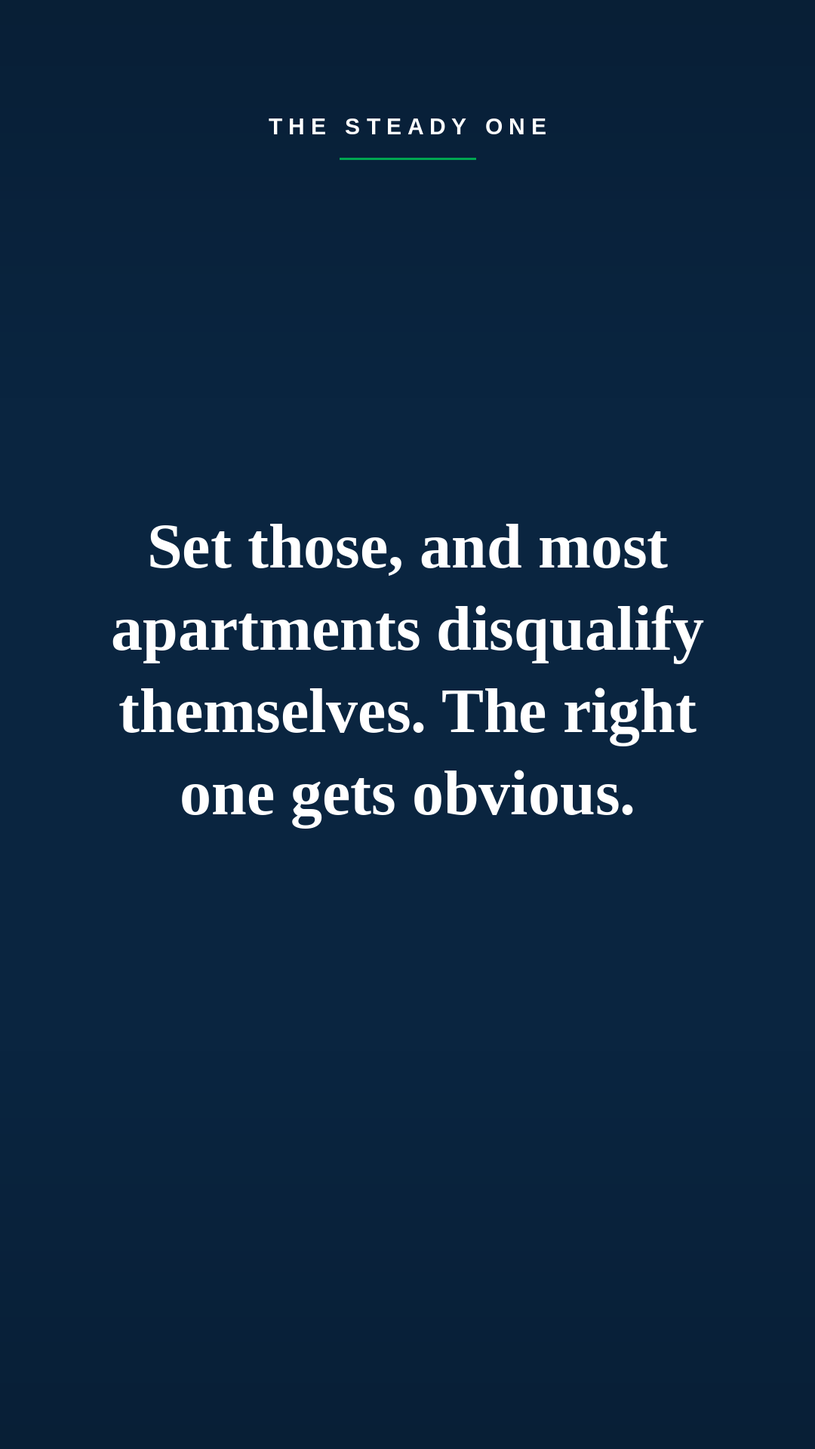
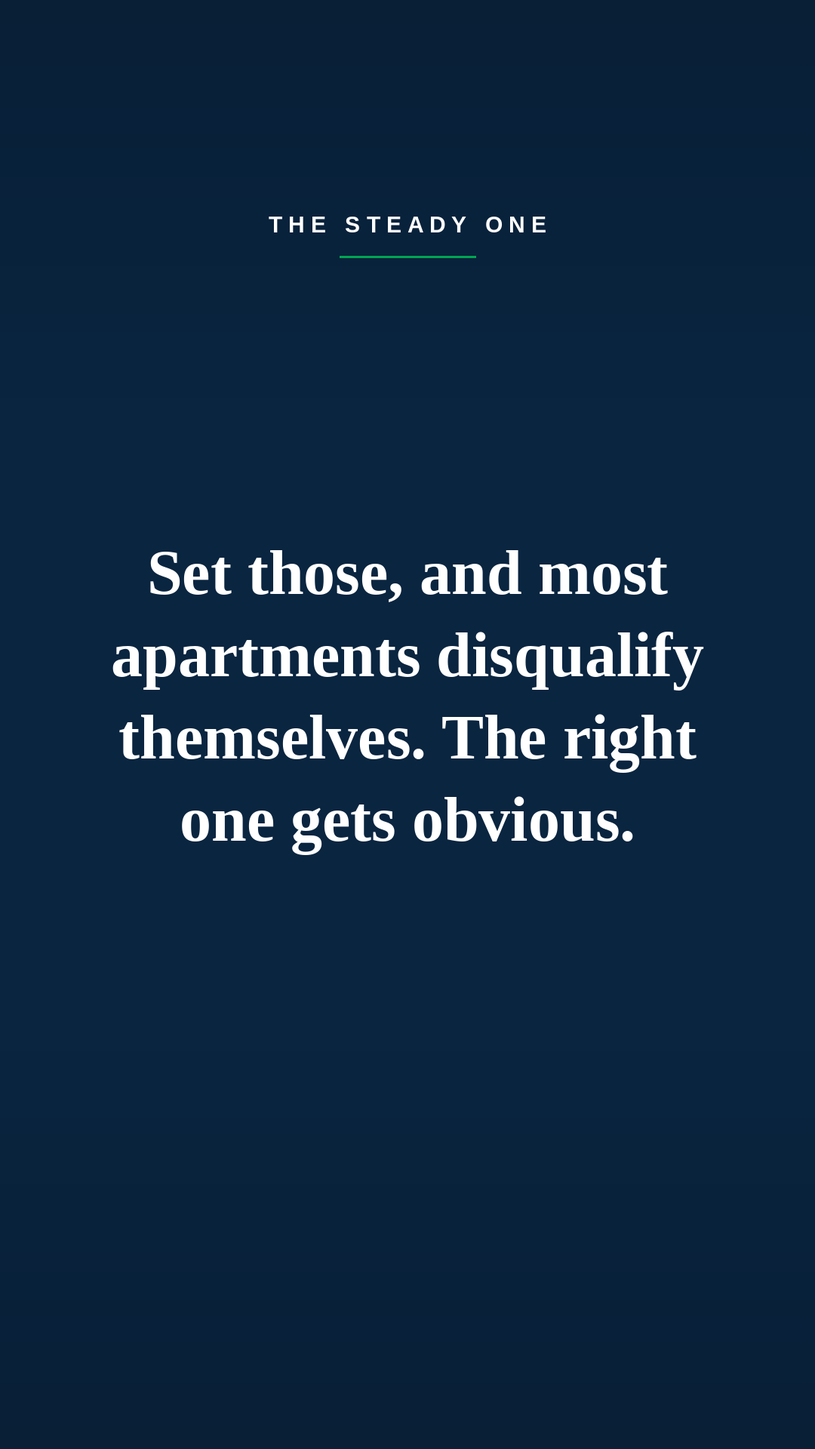
recover: 15 orphaned marketing commits + repo audit (brief rev 26)
Audit after the desktop failure: main was already fully in sync and no
work was uncommitted. The one real gap was claude/steady-one-marketing-plan-qbujnx,
which merged into main only up to PR #31 (2026-06-16) and then kept
receiving 15 commits through 07-01 that never merged back.

Recovered from that branch:
- docs/GROWTH_ROADMAP.md (traffic milestones -> monetization ladder)
- docs/assets/Steady_One_Plano_Marketing.pdf + 8 NYC cover photos
- carousels 05_coliving, 06_hiddencosts, 07_timing, 08_dealbreakers, 09_whystay
- scripts/gen_magic.py (new); scripts/gen_cards.py photo-cover support
- carousels 01-04 regenerated 06-28 for the TikTok top-UI safe zone

Not taken: MARKETING_PLAN.md and all app/lib/content files, where main is
newer. The WakeMind branch nets to zero against main (migrated to
87dejesus/wakemind). Reddit copy-bank and reply-rules on main verified as
supersets of every reconcile branch.

MARKETING_CONTEXT.md fixed while merging: it listed already-generated
carousels as pending and pointed at content/seo-aeo-batch-jun2026 for
docs/reddit-insights/, which has been on main since PR #39.

Claude-Session: https://claude.ai/code/session_017afbq9jNpYULT8SBmGTVc1

diff --git a/scripts/gen_cards.py b/scripts/gen_cards.py
@@ -61,11 +61,12 @@ def bg():
     return img, ImageDraw.Draw(img)
 
 def masthead(d):
+    # y pushed down to clear the TikTok top UI safe zone (status bar + tab bar)
     f = F(SANS, 30)
     txt = "T H E   S T E A D Y   O N E"
     w = d.textlength(txt, font=f)
-    d.text(((W-w)/2, 150), txt, font=f, fill=WHITE)
-    d.line([(W/2-90, 210), (W/2+90, 210)], fill=GREEN, width=3)
+    d.text(((W-w)/2, 280), txt, font=f, fill=WHITE)
+    d.line([(W/2-90, 340), (W/2+90, 340)], fill=GREEN, width=3)
 
 def wrap(d, text, font, maxw):
     out, cur = [], ""
@@ -114,14 +115,14 @@ def swipe_hint(d):
 
 def card_hook(text, path_out, hint=True):
     img, d = bg(); masthead(d)
-    center_block(d, text, SERIF, 96, 60, WHITE, top=360, bottom=1380)
+    center_block(d, text, SERIF, 96, 60, WHITE, top=430, bottom=1380)
     if hint: swipe_hint(d)
     img.save(path_out)
 
 def card_statement(text, path_out, green_tail=None):
     img, d = bg(); masthead(d)
     if green_tail:
-        top, bottom = 360, 1430
+        top, bottom = 430, 1430
         wf, wl, wlh = fit(d, text, SERIF, 80, 50, 900, 520)
         gf, gl, glh = fit(d, green_tail, SERIF, 124, 60, 900, 360)
         gap = 56
@@ -130,7 +131,7 @@ def card_statement(text, path_out, green_tail=None):
         y = draw_lines(d, wl, wf, wlh, y, WHITE)
         draw_lines(d, gl, gf, glh, y + gap, GREEN)
     else:
-        center_block(d, text, SERIF, 84, 54, WHITE, top=360, bottom=1430)
+        center_block(d, text, SERIF, 84, 54, WHITE, top=430, bottom=1430)
     img.save(path_out)
 
 def card_numbers(kicker, rows, note, total, sub, path_out):
@@ -175,6 +176,39 @@ def card_cta(benefit, path_out, pill="Link in bio", free=True):
     img.save(path_out)
 
 # ---------- carousels ----------
+
+def _shadow_lines(d, lines, font, lh, y, fill=WHITE):
+    for i, ln in enumerate(lines):
+        w = d.textlength(ln, font=font); x = (W-w)/2
+        d.text((x+3, y+i*lh+3), ln, font=font, fill=(7, 27, 48))  # drop shadow for legibility on photo
+        d.text((x, y+i*lh), ln, font=font, fill=fill)
+    return y + len(lines)*lh
+
+def card_photo_hook(photo_path, text, path_out):
+    """Cover card: real photo, cover-fit to 9:16, dark scrims, hook text + masthead."""
+    img = Image.open(photo_path).convert("RGB")
+    scale = max(W/img.width, H/img.height)
+    img = img.resize((int(img.width*scale), int(img.height*scale)))
+    left = (img.width-W)//2; top = (img.height-H)//2
+    img = img.crop((left, top, left+W, top+H)).convert("RGBA")
+    ov = Image.new("RGBA", (W, H), (0, 0, 0, 0)); od = ImageDraw.Draw(ov)
+    for y in range(H):
+        a_top = 190*max(0.0, 1 - y/980)
+        a_bot = 150*max(0.0, (y-1520)/(H-1520))
+        a = int(max(a_top, a_bot))
+        if a:
+            od.line([(0, y), (W, y)], fill=(7, 27, 48, a))
+    img.alpha_composite(Image.new("RGBA", (W, H), (7, 27, 48, 45)))
+    img.alpha_composite(ov)
+    img = img.convert("RGB"); d = ImageDraw.Draw(img)
+    mf = F(SANS, 30); mt = "T H E   S T E A D Y   O N E"; mw = d.textlength(mt, font=mf)
+    d.text(((W-mw)/2, 280), mt, font=mf, fill=WHITE)
+    d.line([(W/2-90, 340), (W/2+90, 340)], fill=GREEN, width=3)
+    f, lines, lh = fit(d, text, SERIF, 100, 58, 900, 540)
+    _shadow_lines(d, lines, f, lh, 430, WHITE)
+    sf = F(SANS, 30); st = "S W I P E   >"; sw = d.textlength(st, font=sf)
+    d.text(((W-sw)/2, 1745), st, font=sf, fill=GREEN)
+    img.save(path_out)
 
 def build(slug, cards):
     out = f"docs/carousels/{slug}"
@@ -229,6 +263,50 @@ build("04_boroughs", [
     lambda p: card_statement("The Bronx, the most space per dollar.", p, green_tail="The city's lowest rents."),
     lambda p: card_statement("Your budget is fixed. The tradeoff is yours: space, location, or commute.", p, green_tail="Which line won't you cross?"),
     lambda p: card_cta("Heed takes your budget and your lines, then shows the places that actually fit.", p),
+])
+
+# 5) Co-living vs your own place (decision / tradeoff -> core)
+build("05_coliving", [
+    lambda p: card_hook("That 'studio' might actually be a room with three strangers.", p),
+    lambda p: card_statement("A lot of NYC listings that look like a studio or 1BR are really a private room in a shared or co-living apartment.", p),
+    lambda p: card_statement("Co-living: your own room, shared kitchen and living room.", p, green_tail="You lease the room, not the place."),
+    lambda p: card_statement("The upside: cheaper, often furnished, looser income rules, and usually no guarantor.", p),
+    lambda p: card_statement("The catch: roommates you didn't pick, less privacy, and house rules that aren't yours.", p),
+    lambda p: card_statement("Neither is wrong. It's a tradeoff: price and ease, or space and privacy.", p, green_tail="Which one is your line?"),
+    lambda p: card_cta("Heed asks this up front, then shows only the kind of place you actually want.", p),
+])
+
+# 6) Hidden costs (photo cover test, force #1, regret angle -> core)
+build("06_hiddencosts", [
+    lambda p: card_photo_hook("docs/assets/cover_hiddencosts.png", "In NYC, the rent is the cheap part.", p),
+    lambda p: card_statement("The rent is the number you compare. The costs around it are what wreck the budget.", p),
+    lambda p: card_statement("Utilities, heat, and internet, often not included.", p),
+    lambda p: card_statement("Laundry, amenity, and parking fees that never show in the listing.", p),
+    lambda p: card_statement("Plus the move-in cash: first month and a one month deposit, due at once.", p),
+    lambda p: card_statement("Cheap rent with hidden costs isn't cheap.", p, green_tail="Compare the real monthly, not the sticker."),
+    lambda p: card_cta("Heed shows the real monthly cost on every place you weigh.", p),
+])
+
+# 7) Don't pay before you verify (photo cover; FTC 2025 data + the real risk)
+build("07_timing", [
+    lambda p: card_photo_hook("docs/assets/cover_street.png", "An apartment can get taken. That's not the part that should scare you.", p),
+    lambda p: card_statement("Yes, a good place can go fast. Competition is real. But losing one only costs you time.", p),
+    lambda p: card_statement("The real risk is paying or signing before you've seen it in person and confirmed it's real.", p, green_tail="That's the costly mistake."),
+    lambda p: card_statement("The FTC counts $65 million lost to rental scams. The typical hit: $1,000, paid before ever seeing the place.", p),
+    lambda p: card_statement("And renters 18 to 29 get hit 3x more often.", p, green_tail="First apartment, highest risk."),
+    lambda p: card_statement("Move fast if a place fits your lines. Just never pay or sign before an in-person check.", p, green_tail="That's the one line you don't cross."),
+    lambda p: card_cta("Heed sets your lines and the checks to run before you commit.", p),
+])
+
+# 8) Dealbreakers are personal (from reddit-insights copy-bank, real renter quotes)
+build("08_dealbreakers", [
+    lambda p: card_hook("Stop borrowing other people's dealbreakers.", p),
+    lambda p: card_statement('"Lack of natural light is a HARD NO. I need houseplants to survive the concrete jungle."', p),
+    lambda p: card_statement('"I don\'t care as much about looks or natural light."', p),
+    lambda p: card_statement("Same feature. Opposite answers. Both right.", p, green_tail="Your list isn't theirs."),
+    lambda p: card_statement("A pros-and-cons list won't decide it. It weighs 'second bathroom' the same as 'my sanity.'", p),
+    lambda p: card_statement("The fix is knowing your 2 or 3 hard lines before you tour.", p, green_tail="Decide them calm, on paper."),
+    lambda p: card_cta("Heed turns your hard lines into a filter, then scores every place against them.", p),
 ])
 
 print("DONE")

diff --git a/scripts/gen_magic.py b/scripts/gen_magic.py
@@ -1,0 +1,90 @@
+"""'Reasons We Renew' emotional carousel: photo cover + tender feeling slides + closing."""
+import os
+from PIL import Image, ImageDraw, ImageFont
+W,H=1080,1920
+NAVY=(10,37,64); DEEP=(7,27,48); GREEN=(0,166,81); WHITE=(255,255,255)
+SERIF="/usr/share/fonts/truetype/liberation/LiberationSerif-Bold.ttf"
+SANS="/usr/share/fonts/truetype/liberation/LiberationSans-Bold.ttf"
+SANS_R="/usr/share/fonts/truetype/liberation/LiberationSans-Regular.ttf"
+HEED="public/brand/heed-mascot.png"
+def F(p,s): return ImageFont.truetype(p,s)
+def wrap(d,t,f,mw):
+    out,cur=[],""
+    for w in t.split():
+        test=(cur+" "+w).strip()
+        if d.textlength(test,font=f)<=mw: cur=test
+        else:
+            if cur: out.append(cur)
+            cur=w
+    if cur: out.append(cur)
+    return out
+def fit(d,t,path,mx,mn,mw,mh,lh=1.2):
+    for s in range(mx,mn-1,-2):
+        f=F(path,s); ls=wrap(d,t,f,mw); a,de=f.getmetrics(); h=len(ls)*int((a+de)*lh)
+        if h<=mh: return f,ls,int((a+de)*lh)
+    f=F(path,mn); a,de=f.getmetrics(); return f,wrap(d,t,f,mw),int((a+de)*lh)
+def coverfit(photo):
+    img=Image.open(photo).convert("RGB")
+    sc=max(W/img.width,H/img.height); img=img.resize((int(img.width*sc),int(img.height*sc)))
+    l=(img.width-W)//2; t=(img.height-H)//2
+    return img.crop((l,t,l+W,t+H)).convert("RGBA")
+def cshadow(d,lines,font,lh,y,fill):
+    for i,ln in enumerate(lines):
+        w=d.textlength(ln,font=font); x=(W-w)/2
+        d.text((x+3,y+i*lh+3),ln,font=font,fill=DEEP)
+        d.text((x,y+i*lh),ln,font=font,fill=fill)
+    return y+len(lines)*lh
+
+def thumb_cover(photo,title,subtitle,out):
+    img=coverfit(photo); ov=Image.new("RGBA",(W,H),(0,0,0,0)); od=ImageDraw.Draw(ov)
+    for y in range(H):
+        a=int(min(205,70+130*max(0.0,1-abs(y-880)/560)))
+        od.line([(0,y),(W,y)],fill=(7,27,48,a))
+    img.alpha_composite(ov); img=img.convert("RGB"); d=ImageDraw.Draw(img)
+    tf,tl,tlh=fit(d,title,SERIF,92,54,940,430,lh=1.1)
+    y=cshadow(d,tl,tf,tlh,700,WHITE)
+    sf,sl,slh=fit(d,subtitle,SANS_R,44,30,900,260,lh=1.3)
+    for i,ln in enumerate(sl):
+        w=d.textlength(ln,font=sf); x=(W-w)/2
+        d.text((x+2,y+30+i*slh+2),ln,font=sf,fill=DEEP); d.text((x,y+30+i*slh),ln,font=sf,fill=(214,227,236))
+    bf=F(SANS,26); bt="T H E   S T E A D Y   O N E"; bw=d.textlength(bt,font=bf)
+    d.text(((W-bw)/2,1800),bt,font=bf,fill=WHITE); d.line([(W/2-70,1846),(W/2+70,1846)],fill=GREEN,width=3)
+    img.save(out)
+
+def feeling(photo,text,out):
+    img=coverfit(photo); ov=Image.new("RGBA",(W,H),(0,0,0,0)); od=ImageDraw.Draw(ov)
+    for y in range(H):
+        a=int(min(220,20+205*max(0.0,(y-620)/(H-620))))
+        od.line([(0,y),(W,y)],fill=(7,27,48,a))
+    img.alpha_composite(ov); img=img.convert("RGB"); d=ImageDraw.Draw(img)
+    tf,tl,tlh=fit(d,text,SERIF,72,44,940,660,lh=1.22)
+    total=len(tl)*tlh; top=1010; bottom=1620; y=top+((bottom-top)-total)//2
+    cshadow(d,tl,tf,tlh,y,WHITE)
+    img.save(out)
+
+def closing(text,out):
+    img=Image.new("RGB",(W,H),NAVY); d=ImageDraw.Draw(img)
+    for y in range(H):
+        t=min(1.0,max(0.0,abs(y-H/2)/(H/2)-0.45)/0.55)*0.6
+        d.line([(0,y),(W,y)],fill=(int(NAVY[0]*(1-t)+DEEP[0]*t),int(NAVY[1]*(1-t)+DEEP[1]*t),int(NAVY[2]*(1-t)+DEEP[2]*t)))
+    tf,tl,tlh=fit(d,text,SERIF,74,50,920,520,lh=1.22)
+    total=len(tl)*tlh; y=470+max(0,(560-total)//2)
+    for i,ln in enumerate(tl):
+        w=d.textlength(ln,font=tf); d.text(((W-w)/2,y+i*tlh),ln,font=tf,fill=WHITE)
+    heed=Image.open(HEED).convert("RGBA"); hh=470; hw=int(heed.width*hh/heed.height); heed=heed.resize((hw,hh))
+    img.paste(heed,(int((W-hw)/2),1080),heed); d=ImageDraw.Draw(img)
+    bf=F(SANS,30); bt="T H E   S T E A D Y   O N E"; bw=d.textlength(bt,font=bf)
+    d.text(((W-bw)/2,1600),bt,font=bf,fill=WHITE); d.line([(W/2-80,1650),(W/2+80,1650)],fill=GREEN,width=3)
+    sf=F(SANS_R,36); s="We just make the finding-a-place part calmer."; sw=d.textlength(s,font=sf)
+    d.text(((W-sw)/2,1700),s,font=sf,fill=(200,215,228))
+    img.save(out)
+
+out="docs/carousels/09_whystay"; os.makedirs(out,exist_ok=True)
+thumb_cover("docs/assets/magic_rooftop_sunset.png","I almost gave up on this city","You keep asking if you're doing it wrong. You're not.",f"{out}/01.png")
+feeling("docs/assets/magic_bridge.png","You carried the whole exhausting week home over this bridge, and somewhere in the middle of it you felt okay again.",f"{out}/02.png")
+feeling("docs/assets/magic_bodega.png","You've been invisible to every landlord for months, and then a stranger behind a counter knows your name.",f"{out}/03.png")
+feeling("docs/assets/magic_street.png","You were ready to give up on ever feeling at home, and then you turned onto a street this quiet and your shoulders finally dropped.",f"{out}/04.png")
+feeling("docs/assets/magic_subway.png","You were holding it together all day, and an old man playing violin on a dirty platform almost undid you.",f"{out}/05.png")
+feeling("docs/assets/magic_rooftop.png","Some nights the city you can barely afford turns gold, and for a minute it feels like it's yours too.",f"{out}/06.png")
+closing("The rent asks too much of you. The city keeps giving you reasons to stay.",f"{out}/07.png")
+print("DONE 09_whystay")

diff --git a/docs/GROWTH_ROADMAP.md b/docs/GROWTH_ROADMAP.md
@@ -1,0 +1,57 @@
+# Roadmap por Marcos — The Steady One
+
+**Atualizado:** 2026-06-16
+**Lógica:** cada marco é um número medido (tráfego/leads). Ao bater o número, destrava ações de **crescimento** (chegar no próximo marco) e de **monetização** (ticket maior). Monetização sempre segue volume + integridade da marca.
+**Métrica-mãe:** visitas/mês ao site. **Métrica-irmã:** e-mails capturados (leads)/mês. Ambas no funil (`funnel_events`).
+
+> Princípio que não muda: ranquear por **fit** (as não-negociáveis da pessoa), monetizar só quando o match é genuíno. A confiança É o negócio.
+
+---
+
+## Marco 0 — Agora (0 a ~2.000 visitas/mês): provar o conteúdo
+**Crescimento:** postar 1/dia, testar ângulos (curiosidade x dor) e formatos (capa-foto x navy). Reddit aquecendo. SEO começando.
+**Monetização:** nenhuma otimização ainda. Só garantir que o tracking está medindo tudo.
+**Gatilho p/ avançar:** tráfego subindo de forma consistente E dá pra ver 1-2 formatos/ângulos campeões no funil.
+
+## Marco 1 — ~2.000 a 5.000 visitas/mês: validar o cano de afiliado
+**Crescimento:** dobrar no formato campeão; 2 posts SEO/mês (tráfego que não depende de postar todo dia); bio links com UTM por canal.
+**Monetização:** ligar o **storage afiliado** de verdade (FlexOffers/SpareFoot — o site já tem a tag do FlexOffers). Valor baixo ($5-25/conversão), mas **prova que clique → conversão → pagamento funciona ponta a ponta**. Começar a **captura + sequência de e-mail** (Resend).
+**Por quê:** validar a fontanaria do afiliado enquanto o volume é pequeno, pra estar pronto quando o tráfego vier.
+**Gatilho:** primeiras conversões de storage + lista de e-mail começando a crescer.
+
+## Marco 2 — ~10.000 visitas/mês: ativar monetização
+**Crescimento:** SEO ganhando tração (busca orgânica vira tráfego "passivo"); e-mail trazendo gente de volta.
+**Monetização:**
+1. Otimizar **quiz → e-mail** usando dado real do funil (mexer no gate, na copy).
+2. **Destravar o guarantor (alto ticket):** contatar TheGuarantors/Rhino sobre indicação, OU achar um guarantor com afiliado de verdade. Mostrar a oferta **só pro segmento que precisa** (o quiz já marca "vou precisar de fiador").
+3. E-mail nutrindo o lead → oferta no momento certo.
+**Receita estimada:** ~$2k-6k/mês (depende do mix).
+**Gatilho:** guarantor confirmado OU lista de e-mail relevante e engajada.
+
+## Marco 3 — ~25.000 a 30.000 visitas/mês: monetização de alto valor (lead-gen)
+**Crescimento:** sistematizar/terceirizar produção de conteúdo pra sustentar o volume. Com a economia de conversão já conhecida, **1º teste de ads pago** (só se o ROAS fechar: receita por visitante > custo por visitante).
+**Monetização:** iniciar o **referral de prédios no-fee/lease-up** (o modelo de maior ticket). 1-2 operadores, montar **atribuição** (link/código de indicação ou handoff "a gente te conecta"). **1 contrato assinado = ~$500-1.500.**
+**Receita estimada:** ~$10k-30k+/mês.
+**Gatilho:** 1º lease fechado via indicação → escalar para mais prédios.
+
+## Marco 4 — ~50.000+ visitas/mês: escalar e diversificar
+**Crescimento:** reinvestir no canal de melhor ROAS; possivelmente um time pequeno (conteúdo + BD de parcerias).
+**Monetização:** escalar lead-gen, múltiplos parceiros, diversificar camadas (storage + guarantor + insurance + lease referral). Productizar o pipeline de indicação.
+**Receita estimada:** dezenas de milhares/mês.
+
+---
+
+## Como saber que bati um gatilho (regras de decisão)
+- **Tráfego:** GA + `funnel_events` (visitas, por canal via UTM).
+- **Formato/ângulo campeão:** quando 1 formato traz ~2x o quiz/lead dos outros, de forma consistente (não 1 viral isolado).
+- **Conversão de afiliado:** medir clique no `/storage` e `/low-credit` (já tem tracking) → conversão real reportada pelo parceiro.
+- **Pronto pra ads:** só quando você souber **receita média por visitante**. Aí: se 1 visitante rende $X em afiliado e você paga < $X pra trazer, escala. Senão, não.
+
+## A ordem da escada de monetização (do fácil/baixo ao difícil/alto)
+1. **Storage afiliado** — fácil, ~$5-25. Liga cedo só pra validar o cano.
+2. **Guarantor referral** — médio/alto ticket, mas precisa confirmar que o programa existe.
+3. **Lead-gen / referral de lease-up** — maior ticket ($500-1.500/lease), precisa de parceria com prédios + atribuição.
+4. **Diversificação + escala** — múltiplos parceiros, ads pago rentável, produto.
+
+## O gargalo real
+Em todos os marcos, o limitador é **tráfego consistente**. A ideia é boa e única; o que destrava receita é volume + subir a escada de monetização na ordem certa. Não pular pro Marco 3 sem volume do Marco 2.

diff --git a/docs/MARKETING_CONTEXT.md b/docs/MARKETING_CONTEXT.md
@@ -1,11 +1,22 @@
 # Marketing Context — The Steady One
 
-**Atualizado:** 2026-06-16
-**Branch de trabalho:** `claude/steady-one-marketing-plan-qbujnx`
+**Atualizado:** 2026-08-10 (assets órfãos recuperados do branch `claude/steady-one-marketing-plan-qbujnx`)
 **Modelo:** GRÁTIS + afiliado (paywall de $9.49 aposentado; acesso por login de e-mail). Fonte canônica: `PROJECT_BRIEF.md` + `docs/MARKETING_PLAN.md` (v3).
 **Objetivo da fase:** pico de aluguel de verão NYC, 100% orgânico (~$0), **máximo de leads (e-mails capturados)**. Receita vem de afiliado.
 
 ---
+
+## Regra de conteúdo: SEMPRE puxar inspiração das fontes vivas (de 2026-06-16)
+
+**Antes de gerar qualquer post (carrossel, vídeo, legenda), ler primeiro:**
+1. `docs/reddit-insights/copy-bank.md` — frases reais por dor + arsenal de leis (capturado de threads do Reddit). **Fonte principal de linguagem fresca/autêntica.**
+2. `docs/reddit-insights/raw/` — capturas cruas de threads (contexto bruto).
+3. `content/posts/` — artigos SEO (ângulos e dados já pesquisados).
+4. `docs/RENTER_RESEARCH.md` — as 4 forças validadas.
+
+O objetivo é que cada post use a **voz real dos renters** (do copy-bank), não copy genérica, e fique mais fresco. Puxar 1-2 frases/ângulos do banco por peça.
+
+> `docs/reddit-insights/` está no `main` (consolidado no PR #39, 2026-07-17). Ler direto do repo. Já em uso (ex.: carrossel 08_dealbreakers).
 
 ## Estado atual (o que já está no ar)
 
@@ -26,8 +37,16 @@
 
 **Rodada 2 (fundo com skyline riscado da home — `docs/assets/skyline.png`):**
 - `04_boroughs` (7) — comparação de bairros (curiosidade/tradeoff). **POSTADO.** Card 1 sem ano (atemporal); números 2026 no repo.
-- Pendentes: co-living x apê inteiro; custos escondidos/arrependimento.
+- `05_coliving` (7) — co-living x apê inteiro (força #4), fundo skyline.
 - Vídeos rodada 2 pendentes: quanto aguenta (40x), o que é legal cobrar, custo do trajeto. (Briefs usam `skyline.png` no fundo.)
+
+**Rodada 3 (capa-foto real — `docs/assets/magic_*.png`, `cover_*.png`):**
+- `06_hiddencosts` (7) — custos escondidos/arrependimento. Primeiro com capa-foto.
+- `07_timing` (7) — anti-pânico de timing, dados FTC, sourced do post de SEO.
+- `08_dealbreakers` (7) — não-negociáveis, com falas reais do `copy-bank.md`.
+- `09_whystay` (7) — "why we stay" (copy emocional; ver regra no fim deste doc).
+
+> Todos os cards de 01 a 04 foram **regerados em 2026-06-28** com o masthead abaixado para sair da safe zone da UI do TikTok. Use sempre a versão do repo, não versões antigas exportadas.
 
 CTA padrão: "Free quiz, link in bio" (alinhado ao modelo grátis).
 
@@ -59,8 +78,10 @@ Comparar: vídeo manim x carrossel, e qual ângulo trouxe lead. **Métrica-norte
 ## Arquivos-chave
 
 - `docs/MARKETING_PLAN.md` (v3, modelo grátis) · `docs/RENTER_RESEARCH.md` (4 forças)
-- `docs/VIDEO_SCRIPTS.md` · `scripts/gen_cards.py` (gerador) · `docs/assets/skyline.png`
-- `docs/carousels/` · `supabase/migrations/003_funnel_events.sql`
+- `docs/GROWTH_ROADMAP.md` (marcos de tráfego → escada de monetização)
+- `docs/VIDEO_SCRIPTS.md` · `scripts/gen_cards.py` (gerador de cards, com capa-foto)
+- `scripts/gen_magic.py` (gerador das fotos NYC de capa) · `docs/assets/skyline.png`
+- `docs/carousels/` · `docs/assets/` · `supabase/migrations/003_funnel_events.sql`
 
 ## Próximos passos
 
@@ -68,3 +89,7 @@ Comparar: vídeo manim x carrossel, e qual ângulo trouxe lead. **Métrica-norte
 2. Gerar rodada 2 restante: co-living, custos escondidos (carrosséis) + 3 vídeos.
 3. Construir e-mail de follow-up (Resend) — alavanca de código que falta.
 4. Em 3-5 dias: rodar a query, comparar formato x ângulo, dobrar no que traz lead.
+
+## Regra de copy emocional (aprendida 2026-06-17)
+
+Empatia = nomear a dor/auto-dúvida REAL do renter primeiro ("you are not doing it wrong"), depois a pequena graça. Registro tenro e vulnerável, em "você". NUNCA esperto/irônico (afasta). Puxar o sentimento do copy-bank. Ex.: carrossel 09_whystay (levou 3 tentativas; v1/v2 falharam por serem "espertas").

diff --git a/PROJECT_BRIEF.md b/PROJECT_BRIEF.md
@@ -1,7 +1,7 @@
 # PROJECT_BRIEF.md — The Steady One
 
-**Revision:** 25
-**Last updated:** 2026-07-17 (INCIDENT CLOSED: migrated to memo23/streeteasy-ppr, catalog restored to 218 active across all 5 boroughs; PRs #37+#38)
+**Revision:** 26
+**Last updated:** 2026-08-10 (repo audit after the desktop failure: main was fully in sync; recovered 15 orphaned marketing commits from `claude/steady-one-marketing-plan-qbujnx`)
 **Canonical record:** Update this on every meaningful change. Bump the revision number.
 
 ---
@@ -197,6 +197,21 @@ CRON_SECRET                    (timing-safe-verified on cleanup route)
 - Old discovery reports archived in `docs/archive/`.
 
 ## 13. Incident log
+
+### 2026-08-10 — Repo audit after the desktop failure (no data lost)
+
+**Context:** the founder's desktop broke around 2026-07-28 and work resumed on a laptop. Full fine-tooth audit of every branch, tag and PR on `github.com/87dejesus/pepe-mvp2` to confirm nothing was stranded.
+
+**Findings:**
+- `main` tip is `3c6599c` (2026-07-28, "salvage untracked capture script..."). Nothing was left uncommitted or unpushed. All 44 PRs are closed/merged; none open.
+- **Newest activity (2026-08-04/05) is not this product.** Branch `claude/wakemind-product-discovery-1i2qlo` holds 6 WakeMind discovery commits whose last 3 commits delete everything after migration to the separate repo `87dejesus/wakemind` (confirmed to exist, last push 2026-08-05 02:34, after the cleanup). Net diff vs `main`: zero files. Nothing to bring over.
+- **The one real gap:** `claude/steady-one-marketing-plan-qbujnx` merged into `main` only up to PR #31 (2026-06-16). Its next **15 commits (2026-06-16 → 07-01) never merged**, orphaning `docs/GROWTH_ROADMAP.md`, `docs/assets/Steady_One_Plano_Marketing.pdf`, 8 NYC cover photos, carousels `05_coliving` through `09_whystay` (35 PNGs), `scripts/gen_magic.py`, the photo-cover + TikTok-safe-zone rewrite of `scripts/gen_cards.py`, and the emotional-copy rule in `MARKETING_CONTEXT.md`. **Recovered 2026-08-10.**
+- **Verified no Reddit work was lost:** `docs/reddit-insights/copy-bank.md` on `main` is a strict superset of the `reconcile/*` and `content/seo-aeo-batch-jun2026` copies (zero exclusive lines). The Filtro Zero in `.claude/reddit-reply-rules.md` on `main` is the newer "PSICOLÓGICO" reframe that deliberately replaced the older "INTENÇÃO" version still sitting on those branches. Tag `reddit-reconcile-jul17`: 0 commits outside `main`.
+- **23 stale branches** (`claude/*`, `hotfix/*`, Jan–Jun) share no merge base with `main` (history was rewritten at some point) and contain no exclusive files. Safe to delete.
+
+**Also corrected during recovery:** `MARKETING_CONTEXT.md` still listed the co-living and hidden-costs carousels as pending when both had been generated, and pointed at `content/seo-aeo-batch-jun2026` for `docs/reddit-insights/` which has lived on `main` since PR #39.
+
+**Lesson:** a feature branch can be merged once and then keep receiving commits that nobody merges again. Check `git log origin/main..<branch>` before abandoning a branch, not just whether its PR shows merged.
 
 ### 2026-05-19 — Scraper double failure (resolved same day)
 
